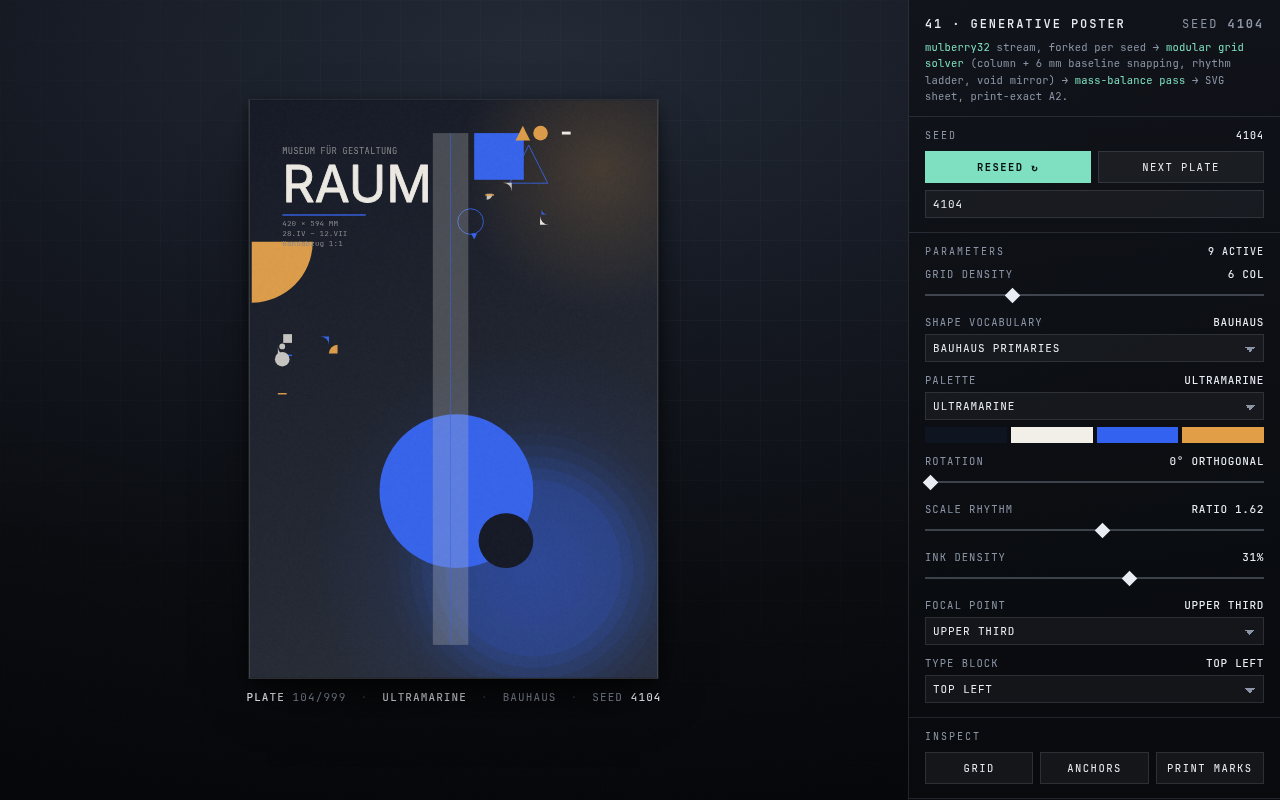
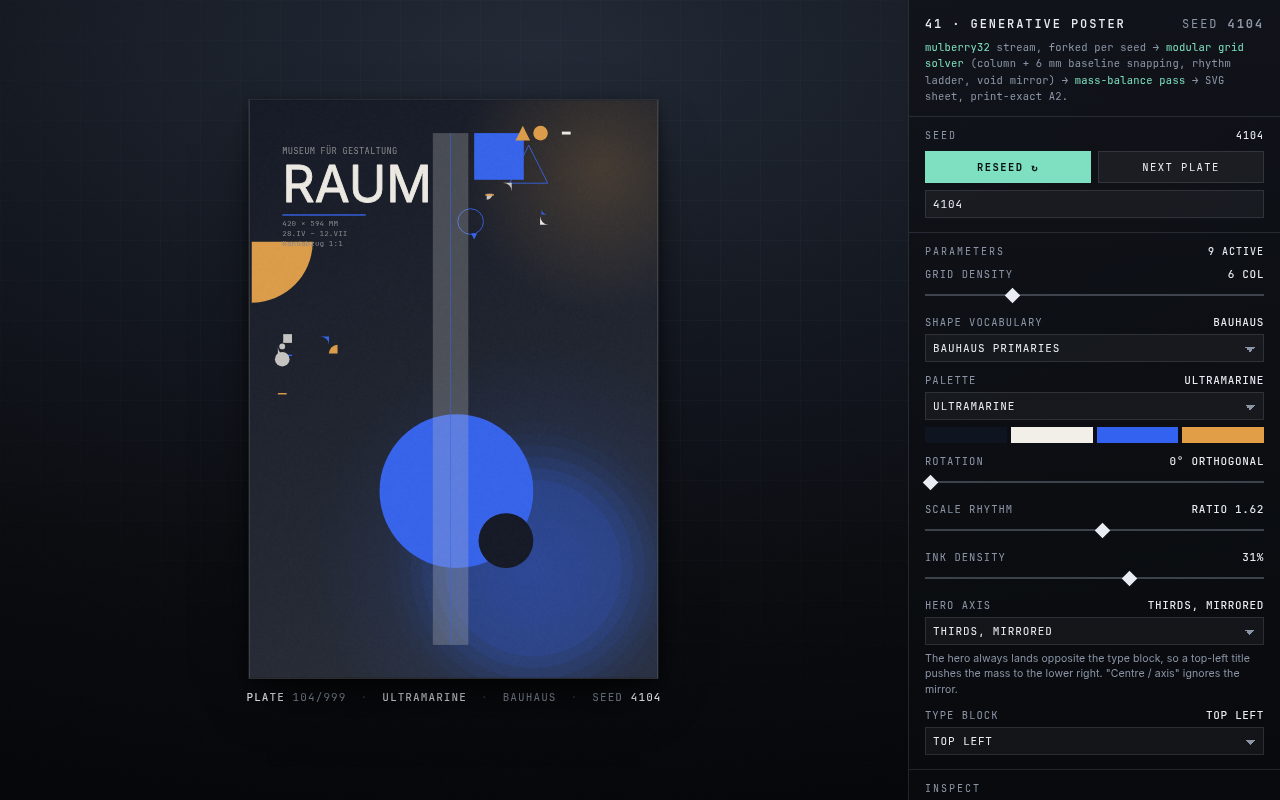
Fix misleading focal-point labels in generative-poster
The control read "Focal point / Upper third" while the hero was landing at
the lower third of the sheet. The geometry is correct: the hero is placed
opposite the type block on the requested axis (the mirror is deliberate,
per the comment above it), so with a top-left title the mass falls to the
lower right. The label named an axis preference, not a resulting position,
and read as a bug to anyone checking the render against the sidebar.

Relabel the control "Hero axis" with options that describe what they do
("Thirds, mirrored", "Golden, mirrored", "Fixed lower right"), and add a
one-line hint explaining the mirror so the behaviour is self-evident.

Geometry is untouched: __probe.focalMm is identical before and after, and
the project still passes the render gate. Verified no page overflow.

Adds demos/tools/focal-check.mjs, the probe that found the mismatch -- it
reads the live composition via __probe.focalMm and compares it against the
label text in the sidebar.

diff --git a/projects/generative-poster/index.html b/projects/generative-poster/index.html
@@ -97,6 +97,7 @@
 
   .row{margin-bottom:11px}
   .row:last-child{margin-bottom:0}
+  .hint{margin:6px 0 0;font-size:10.5px;line-height:1.45;color:var(--dim);letter-spacing:.01em}
   .row .top{display:flex;justify-content:space-between;align-items:baseline;
     font-family:var(--mono);font-size:10.5px;letter-spacing:.10em;
     text-transform:uppercase;color:var(--dim);margin-bottom:5px}
@@ -239,13 +240,15 @@
       </div>
 
       <div class="row">
-        <div class="top"><label for="iFocal">Focal point</label><b id="vFocal">Rule of thirds</b></div>
+        <div class="top"><label for="iFocal">Hero axis</label><b id="vFocal">Rule of thirds</b></div>
         <select id="iFocal">
-          <option value="0">Upper third</option>
-          <option value="1">Golden section</option>
+          <option value="0">Thirds, mirrored</option>
+          <option value="1">Golden, mirrored</option>
           <option value="2">Centre / axis</option>
-          <option value="3">Lower third, right</option>
+          <option value="3">Fixed lower right</option>
         </select>
+        <p class="hint">The hero always lands opposite the type block, so a top-left title
+          pushes the mass to the lower right. "Centre / axis" ignores the mirror.</p>
       </div>
 
       <div class="row">
@@ -1293,7 +1296,7 @@ function draw(){
   $("vRot").textContent = P.rot === 0 ? "0° orthogonal" : P.rot + "°";
   $("vRhythm").textContent = "ratio " + P.ratio.toFixed(2);
   $("vDens").textContent = P.dens + "%";
-  $("vFocal").textContent = ["Upper third","Golden section","Centre / axis","Lower third, right"][P.focal];
+  $("vFocal").textContent = ["Thirds, mirrored","Golden, mirrored","Centre / axis","Fixed lower right"][P.focal];
   $("vType").textContent = ["Top left","Top right","Bottom left","Bottom right","Bottom band","Vertical rail"][P.type];
   $("sw").innerHTML = [c.pal.ground, c.pal.ink, c.pal.a, c.pal.b]
     .map(col => `<i style="background:${col}"></i>`).join("");
